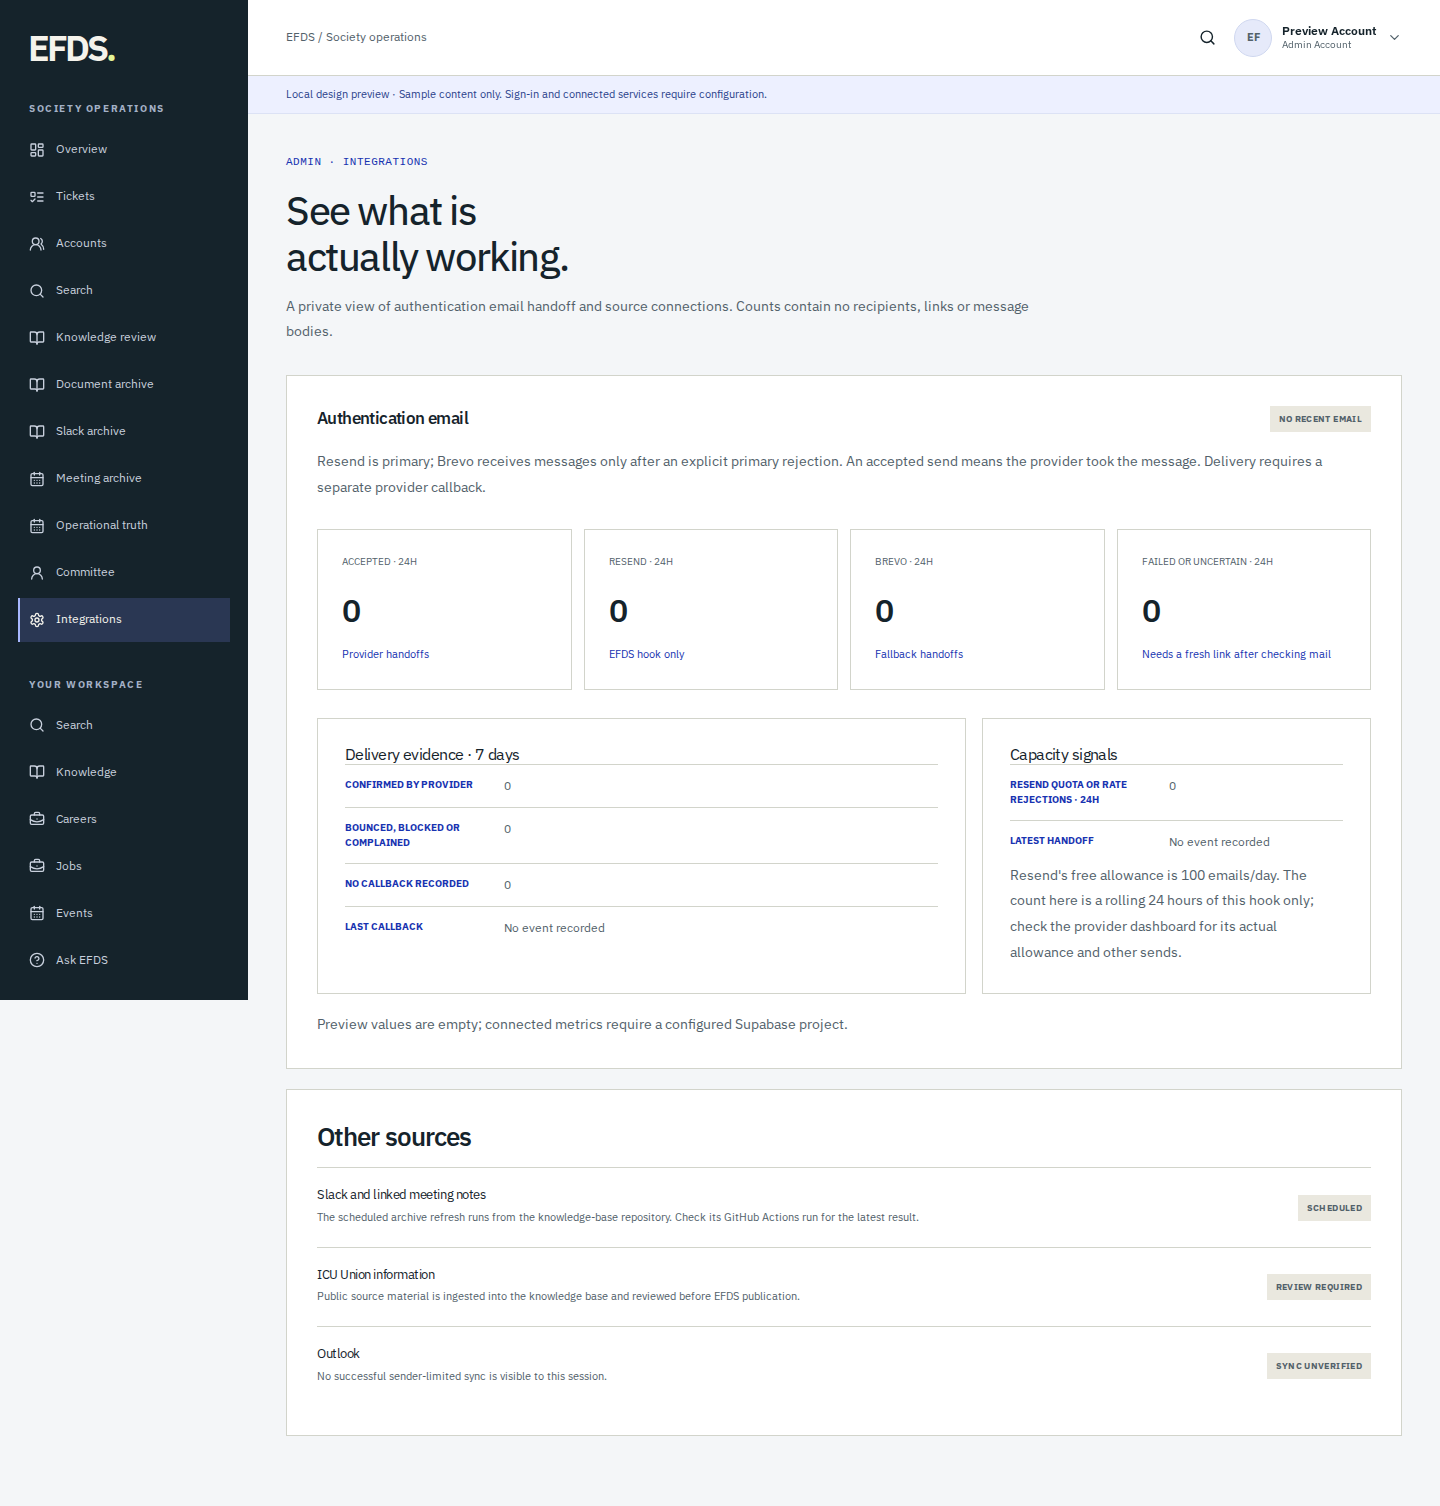
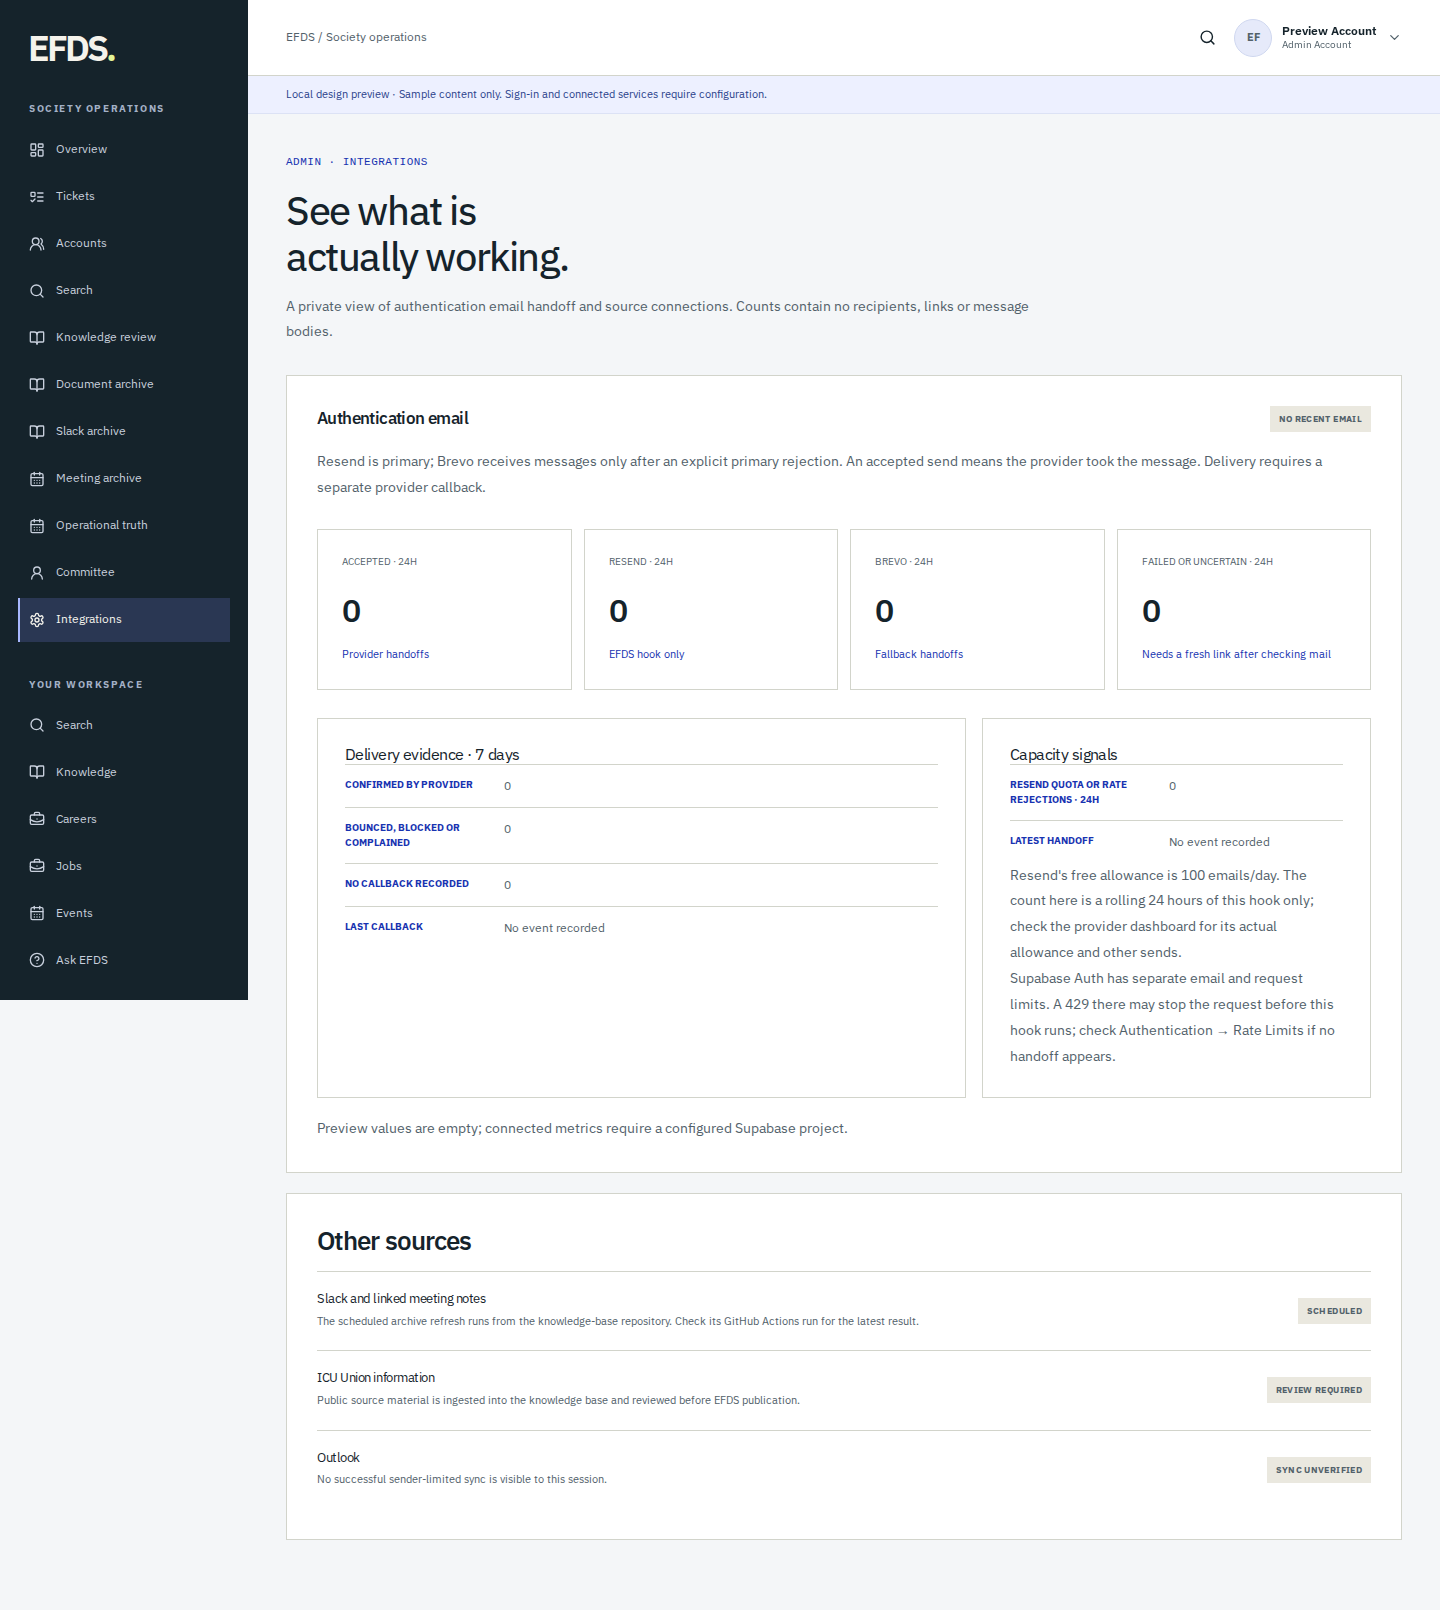
Clarify upstream auth limits in integration health

diff --git a/app/admin/integrations/page.tsx b/app/admin/integrations/page.tsx
@@ -34,7 +34,7 @@ export default async function AdminIntegrationsPage() {
       </div>
       <div className="app-grid">
         <div className="surface app-panel"><h3>Delivery evidence · 7 days</h3><dl className="security-details"><div><dt>Confirmed by provider</dt><dd>{email.delivered7d}</dd></div><div><dt>Bounced, blocked or complained</dt><dd>{email.bounced7d}</dd></div><div><dt>No callback recorded</dt><dd>{email.awaitingEvent7d}</dd></div><div><dt>Last callback</dt><dd>{date(email.lastDeliveryEventAt)}</dd></div></dl></div>
-        <div className="surface app-panel"><h3>Capacity signals</h3><dl className="security-details"><div><dt>Resend quota or rate rejections · 24h</dt><dd>{email.quotaSignals24h}</dd></div><div><dt>Latest handoff</dt><dd>{date(email.lastAttemptAt)}</dd></div></dl><p className="muted">Resend&apos;s free allowance is 100 emails/day. The count here is a rolling 24 hours of this hook only; check the provider dashboard for its actual allowance and other sends.</p></div>
+        <div className="surface app-panel"><h3>Capacity signals</h3><dl className="security-details"><div><dt>Resend quota or rate rejections · 24h</dt><dd>{email.quotaSignals24h}</dd></div><div><dt>Latest handoff</dt><dd>{date(email.lastAttemptAt)}</dd></div></dl><p className="muted">Resend&apos;s free allowance is 100 emails/day. The count here is a rolling 24 hours of this hook only; check the provider dashboard for its actual allowance and other sends.</p><p className="muted">Supabase Auth has separate email and request limits. A 429 there may stop the request before this hook runs; check Authentication → Rate Limits if no handoff appears.</p></div>
       </div>
       {email.quotaSignals24h > 0 && <p className="form-error" role="status" style={{ marginTop: 18 }}>Resend reported a quota or rate rejection. Check Brevo handoffs and provider dashboards before inviting more people.</p>}
       {email.awaitingEvent7d > 0 && <p className="muted" style={{ marginTop: 18 }}>Messages without callbacks may have arrived. Configure both signed provider webhooks before treating this number as a delivery problem.</p>}
